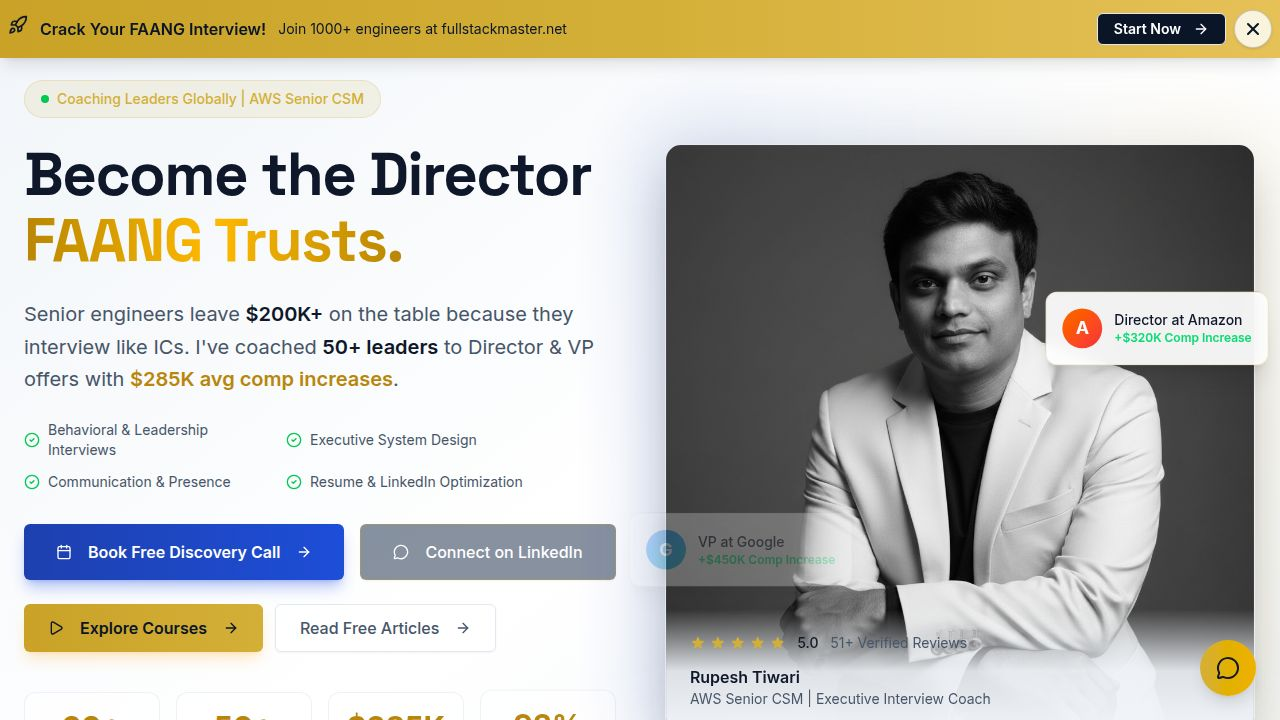
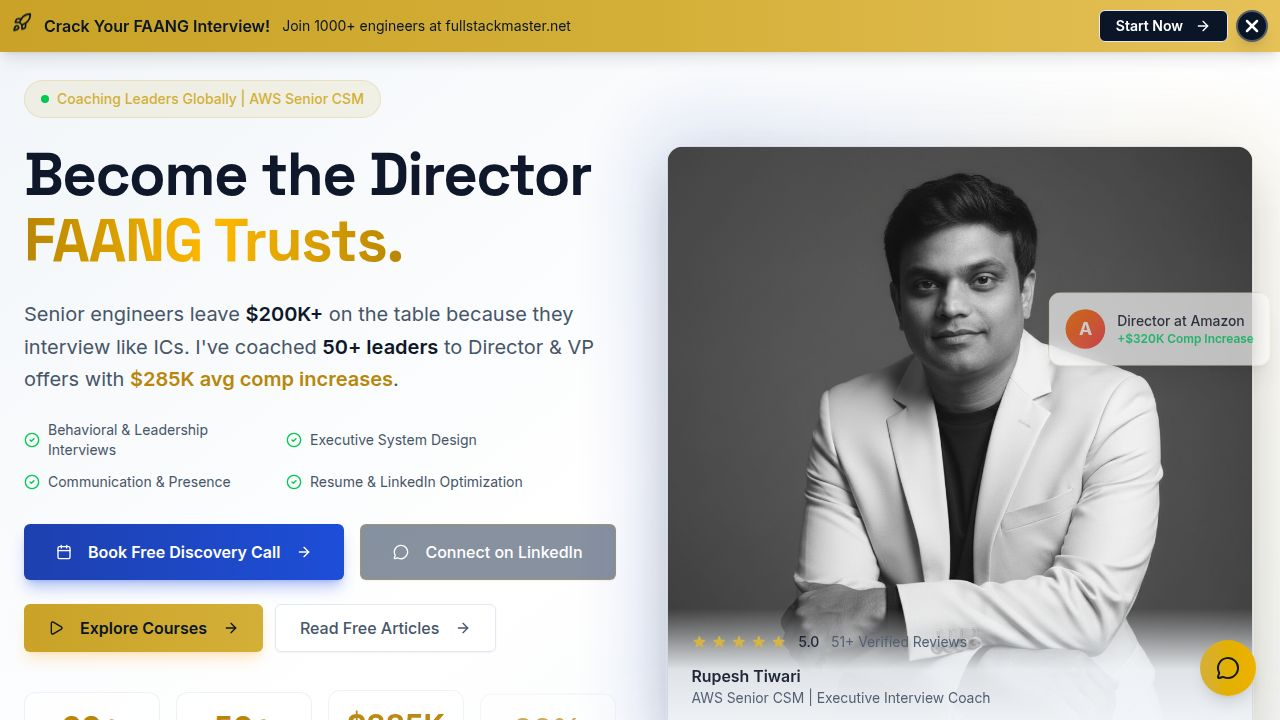
Set light theme as default and add site sharing options to footer
Fixes default theme to light and adds LinkedIn, Twitter, and copy link sharing buttons to the footer component.

Replit-Commit-Author: Agent
Replit-Commit-Session-Id: b697ffaf-d7ae-4622-821a-0321620efc27
Replit-Commit-Checkpoint-Type: full_checkpoint
Replit-Commit-Event-Id: 7464a451-8057-457c-bd11-8258856c5381
Replit-Commit-Screenshot-Url: https://storage.googleapis.com/screenshot-production-us-central1/61a264a3-8011-425a-8774-88c79ad887fa/b697ffaf-d7ae-4622-821a-0321620efc27/vfKDELW
Replit-Helium-Checkpoint-Created: true

diff --git a/client/src/components/footer.tsx b/client/src/components/footer.tsx
@@ -1,13 +1,37 @@
-import { Github, Linkedin, MessageCircle, Twitter, Calendar, Youtube, ExternalLink, Shield, BadgeCheck } from "lucide-react";
+import { Github, Linkedin, MessageCircle, Twitter, Calendar, Youtube, ExternalLink, Shield, BadgeCheck, Share2, Link2, Check } from "lucide-react";
 import { Button } from "@/components/ui/button";
 import { motion } from "framer-motion";
+import { useState } from "react";
 
 export default function Footer() {
+  const [copied, setCopied] = useState(false);
   const bookingLink = "https://calendar.google.com/calendar/appointments/AcZssZ2dMNXqXzYcl2NKLpclDV9w0p4-9cp4UvTHii0=?gv=true";
+  const siteUrl = "https://www.rupeshtiwari.com";
+  const siteTitle = "Rupesh Tiwari - AWS Executive Interview Coach";
   
   const getObfuscatedEmail = () => {
     const parts = ['rupesh', 'fullstackmaster', 'net'];
     return `${parts[0]}@${parts[1]}.${parts[2]}`;
+  };
+
+  const shareToLinkedIn = () => {
+    const linkedInUrl = `https://www.linkedin.com/sharing/share-offsite/?url=${encodeURIComponent(siteUrl)}`;
+    window.open(linkedInUrl, '_blank', 'width=600,height=600');
+  };
+
+  const shareToTwitter = () => {
+    const twitterUrl = `https://twitter.com/intent/tweet?text=${encodeURIComponent(siteTitle)}&url=${encodeURIComponent(siteUrl)}`;
+    window.open(twitterUrl, '_blank', 'width=600,height=400');
+  };
+
+  const copyLink = async () => {
+    try {
+      await navigator.clipboard.writeText(siteUrl);
+      setCopied(true);
+      setTimeout(() => setCopied(false), 2000);
+    } catch (err) {
+      console.error('Failed to copy link');
+    }
   };
   
   return (
@@ -105,28 +129,72 @@ export default function Footer() {
           </div>
         </div>
         
-        <div className="flex flex-col md:flex-row justify-between items-center gap-4">
-          <div className="flex flex-col sm:flex-row items-center gap-2 sm:gap-4 text-[var(--theme-text-muted)] text-sm">
-            <p>© {new Date().getFullYear()} Rupesh Tiwari. All rights reserved.</p>
-            <div className="flex items-center gap-4">
-              <a href="/privacy" className="hover:text-[var(--theme-gold)] transition-colors" data-testid="link-privacy">Privacy Policy</a>
-              <span className="hidden sm:inline">|</span>
-              <span>100% Confidential - NDA Available</span>
+        <div className="flex flex-col gap-6">
+          <div className="flex flex-col sm:flex-row items-center justify-center gap-4 py-4 border-b border-[var(--theme-border)]">
+            <span className="text-[var(--theme-text-muted)] text-sm flex items-center gap-2">
+              <Share2 className="w-4 h-4" />
+              Share this site:
+            </span>
+            <div className="flex items-center gap-3">
+              <button
+                onClick={shareToLinkedIn}
+                className="flex items-center gap-2 px-4 py-2 rounded-lg bg-[#0A66C2] text-white hover:bg-[#004182] transition-colors text-sm font-medium"
+                data-testid="button-share-linkedin"
+              >
+                <Linkedin className="w-4 h-4" />
+                LinkedIn
+              </button>
+              <button
+                onClick={shareToTwitter}
+                className="flex items-center gap-2 px-4 py-2 rounded-lg bg-[#1DA1F2] text-white hover:bg-[#0c85d0] transition-colors text-sm font-medium"
+                data-testid="button-share-twitter"
+              >
+                <Twitter className="w-4 h-4" />
+                Twitter
+              </button>
+              <button
+                onClick={copyLink}
+                className="flex items-center gap-2 px-4 py-2 rounded-lg bg-[var(--theme-bg-card)] border border-[var(--theme-border)] text-[var(--theme-text-primary)] hover:bg-[var(--theme-bg-secondary)] transition-colors text-sm font-medium"
+                data-testid="button-copy-link"
+              >
+                {copied ? (
+                  <>
+                    <Check className="w-4 h-4 text-green-500" />
+                    <span className="text-green-500">Copied!</span>
+                  </>
+                ) : (
+                  <>
+                    <Link2 className="w-4 h-4" />
+                    Copy Link
+                  </>
+                )}
+              </button>
             </div>
           </div>
-          <div className="flex gap-4">
-            <a href="https://github.com/rupeshtiwari" target="_blank" rel="noopener noreferrer" className="text-[var(--theme-text-muted)] hover:text-[var(--theme-text-primary)] transition-colors">
-              <Github className="w-5 h-5" />
-            </a>
-            <a href="https://twitter.com/nickleus" target="_blank" rel="noopener noreferrer" className="text-[var(--theme-text-muted)] hover:text-[var(--theme-text-primary)] transition-colors">
-              <Twitter className="w-5 h-5" />
-            </a>
-            <a href="https://www.linkedin.com/in/rupesh-tiwari/" target="_blank" rel="noopener noreferrer" className="text-[var(--theme-text-muted)] hover:text-[var(--theme-text-primary)] transition-colors">
-              <Linkedin className="w-5 h-5" />
-            </a>
-            <a href="https://www.youtube.com/@FullStackMaster" target="_blank" rel="noopener noreferrer" className="text-[var(--theme-text-muted)] hover:text-[var(--theme-text-primary)] transition-colors">
-              <Youtube className="w-5 h-5" />
-            </a>
+          
+          <div className="flex flex-col md:flex-row justify-between items-center gap-4">
+            <div className="flex flex-col sm:flex-row items-center gap-2 sm:gap-4 text-[var(--theme-text-muted)] text-sm">
+              <p>© {new Date().getFullYear()} Rupesh Tiwari. All rights reserved.</p>
+              <div className="flex items-center gap-4">
+                <a href="/privacy" className="hover:text-[var(--theme-gold)] transition-colors" data-testid="link-privacy">Privacy Policy</a>
+                <span className="hidden sm:inline">|</span>
+                <span>100% Confidential - NDA Available</span>
+              </div>
+            </div>
+            <div className="flex gap-4">
+              <a href="https://github.com/rupeshtiwari" target="_blank" rel="noopener noreferrer" className="text-[var(--theme-text-muted)] hover:text-[var(--theme-text-primary)] transition-colors">
+                <Github className="w-5 h-5" />
+              </a>
+              <a href="https://twitter.com/nickleus" target="_blank" rel="noopener noreferrer" className="text-[var(--theme-text-muted)] hover:text-[var(--theme-text-primary)] transition-colors">
+                <Twitter className="w-5 h-5" />
+              </a>
+              <a href="https://www.linkedin.com/in/rupesh-tiwari/" target="_blank" rel="noopener noreferrer" className="text-[var(--theme-text-muted)] hover:text-[var(--theme-text-primary)] transition-colors">
+                <Linkedin className="w-5 h-5" />
+              </a>
+              <a href="https://www.youtube.com/@FullStackMaster" target="_blank" rel="noopener noreferrer" className="text-[var(--theme-text-muted)] hover:text-[var(--theme-text-primary)] transition-colors">
+                <Youtube className="w-5 h-5" />
+              </a>
+            </div>
           </div>
         </div>
       </div>

diff --git a/client/index.html b/client/index.html
@@ -1,5 +1,5 @@
 <!DOCTYPE html>
-<html lang="en" class="dark">
+<html lang="en" class="light">
   <head>
     <meta charset="UTF-8" />
     <meta name="viewport" content="width=device-width, initial-scale=1.0, maximum-scale=5" />
@@ -229,10 +229,10 @@
     
     <style>
       body {
-        background-color: #020617;
-      }
-      html.light body {
         background-color: #f8fafc;
+      }
+      html.dark body {
+        background-color: #020617;
       }
     </style>
   </head>
